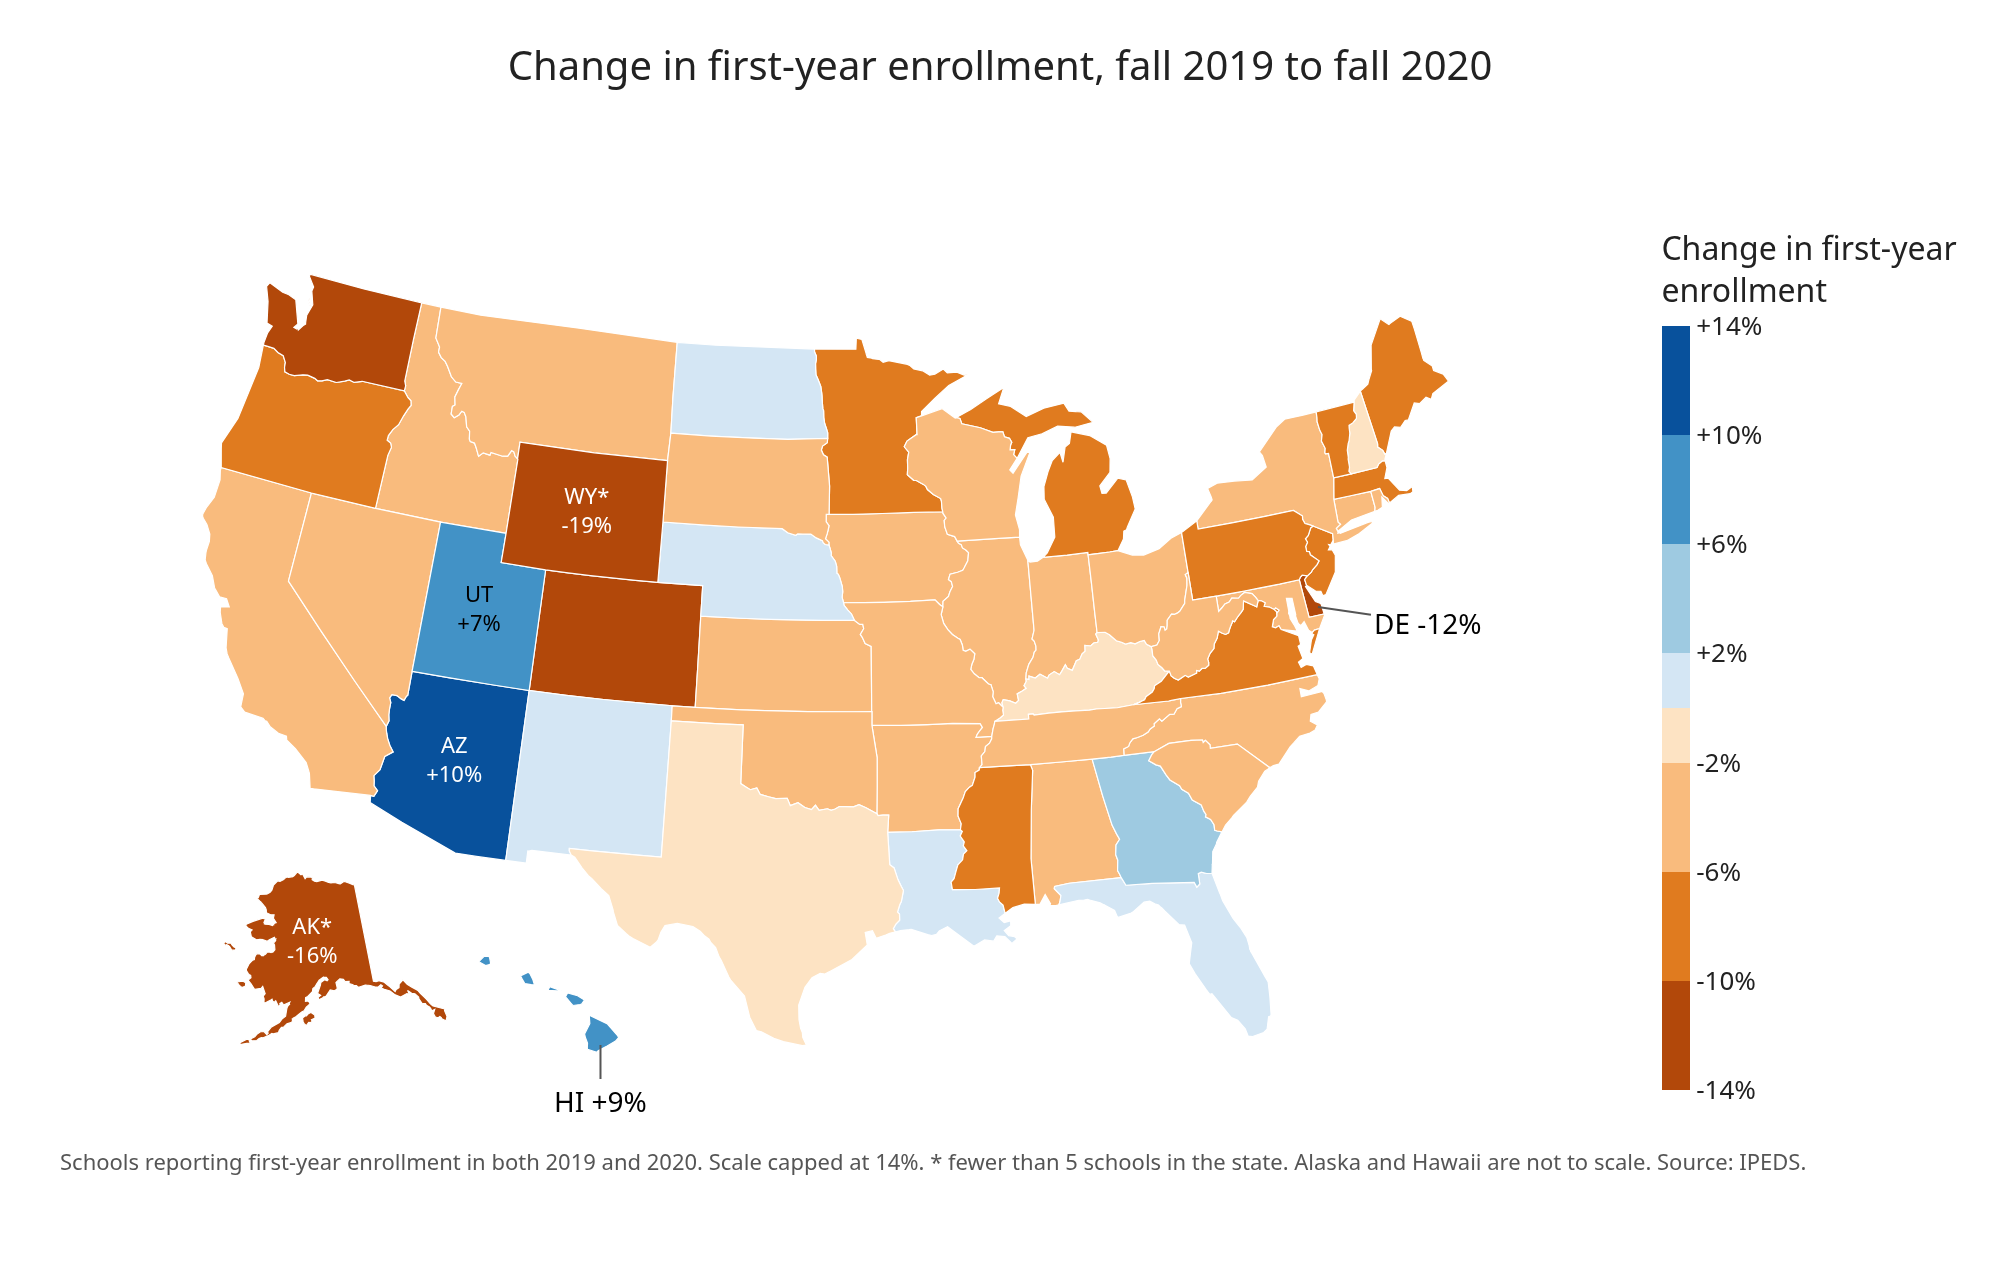
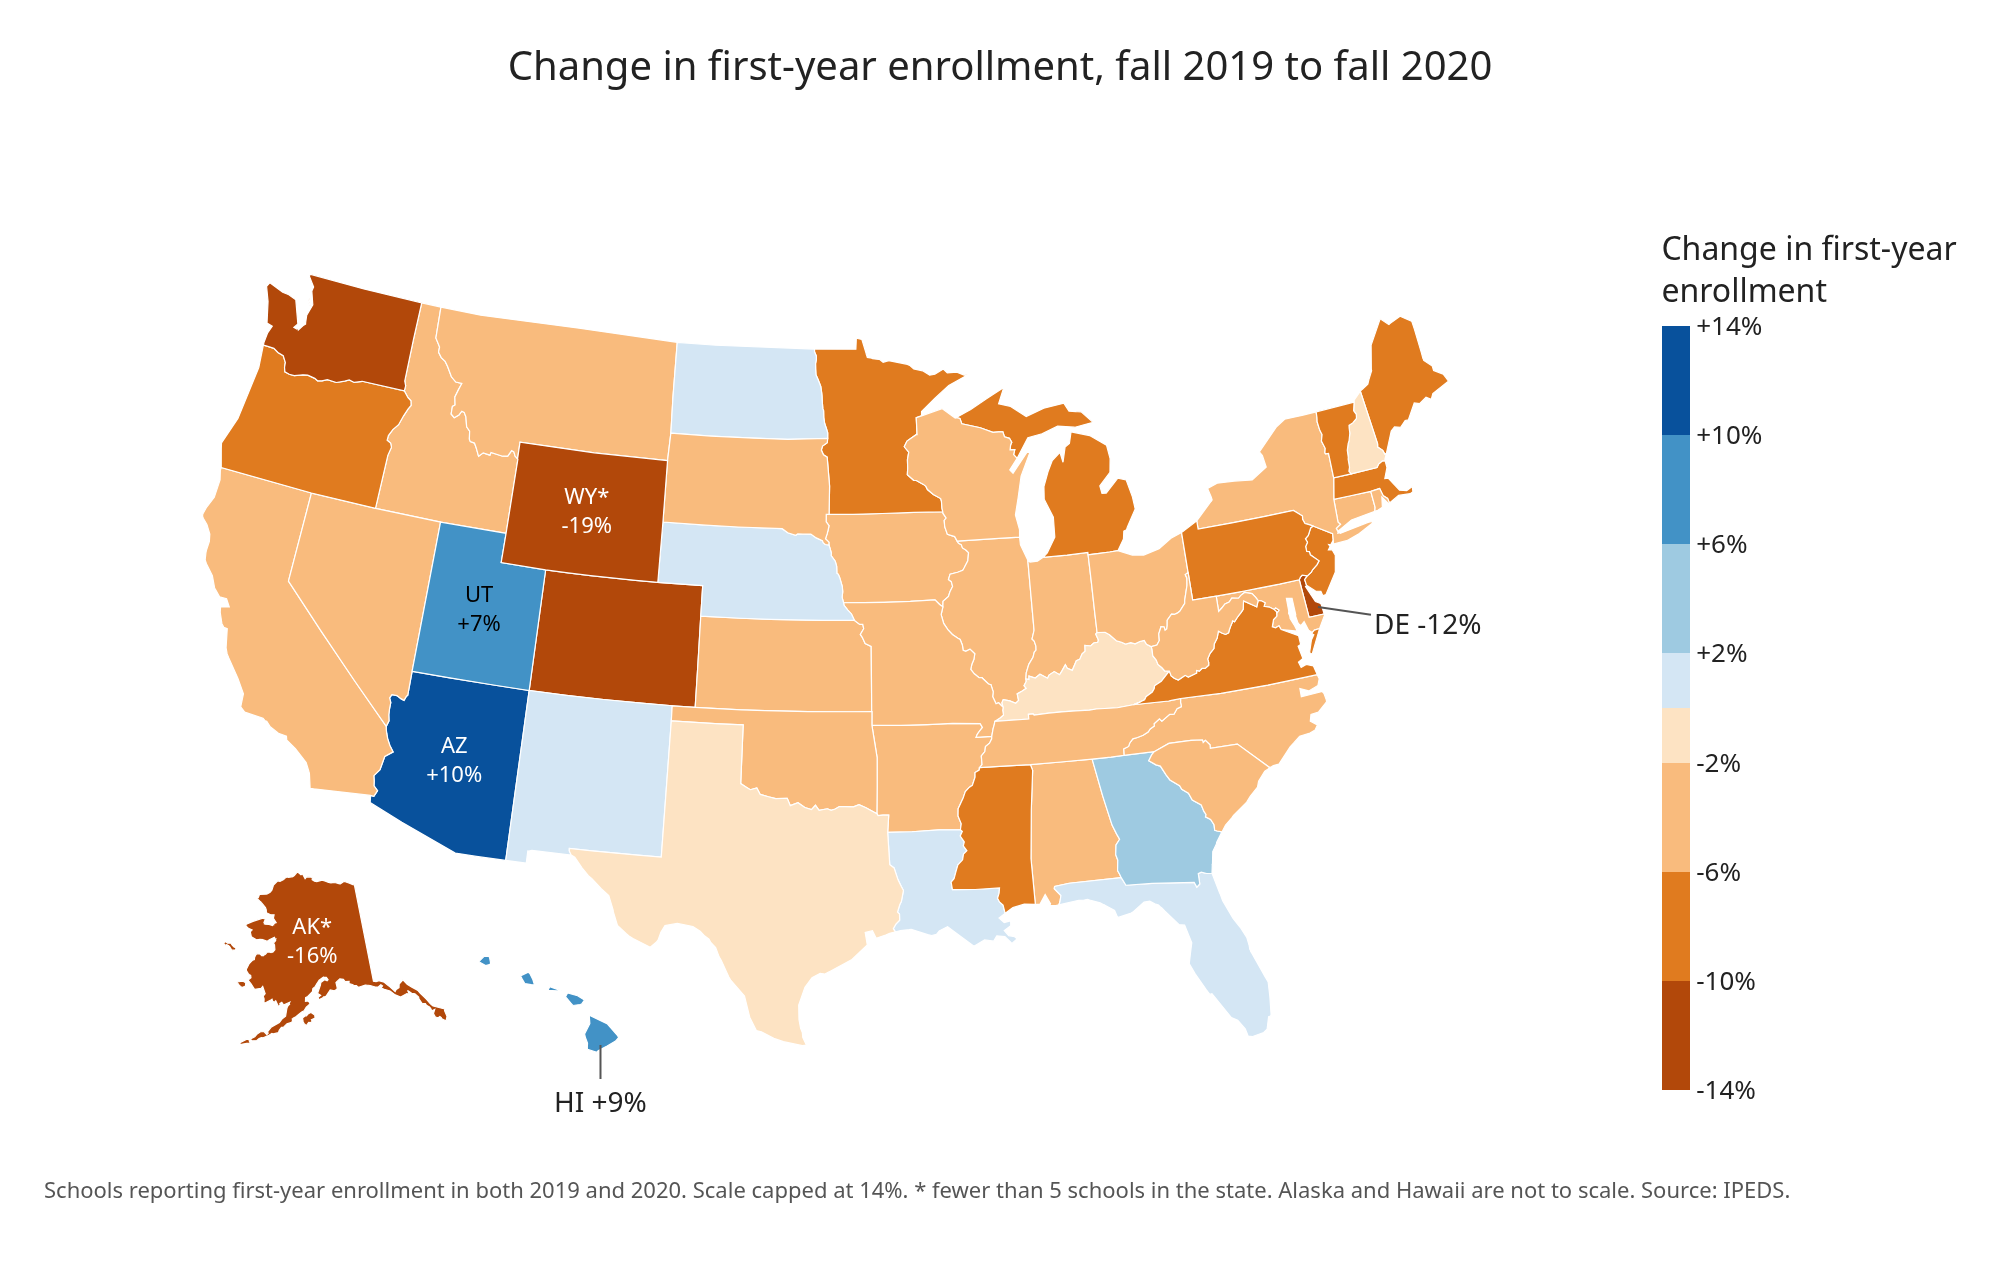
added a utils script for shared logic in python scripts

Changed region(s): [[0.031, 0.9062, 0.899, 0.9375]]

diff --git a/scripts/covid_map.py b/scripts/covid_map.py
@@ -3,16 +3,15 @@
 Reads clean/map_covid.csv (made by clean_data.ipynb) and writes figures/fig1_covid_map.png.
 Run from the repo root: python scripts/covid_map.py
 """
-from pathlib import Path
-
 import numpy as np
 import pandas as pd
 import plotly.graph_objects as go
 
+from utils import footnote, save, style
+
 CAP = 14  # color scale is capped at +/- this many percent
 EDGES = [-14, -10, -6, -2, 0, 2, 6, 10, 14]
 COLORS = ["#b2480a", "#e07b1f", "#f9bb7d", "#fde3c3", "#d4e6f4", "#9ecae1", "#4292c6", "#08519c"]
-COL = "2019-2020"
 # states too small for an in-map label: (x, y, ax, ay) in plot coords and pixel offset of the text
 CALLOUTS = {"HI": (0.357, 0.115, 0, 28), "DE": (0.814, 0.553, 55, 8)}
 
@@ -20,78 +19,46 @@ CALLOUTS = {"HI": (0.357, 0.115, 0, 28), "DE": (0.814, 0.553, 55, 8)}
 def color_scale():
     """Stepped colorscale, one flat color per bin (bins have unequal widths)."""
     pos = [(e + CAP) / (2 * CAP) for e in EDGES]
-    scale = []
-    for i, c in enumerate(COLORS):
-        scale += [[pos[i], c], [pos[i + 1], c]]
-    return scale
+    return [[pos[i + j], c] for i, c in enumerate(COLORS) for j in (0, 1)]
 
 
 def build_figure(map_covid):
-    fig = go.Figure()
-    n = map_covid["n_schools"]
-    v = map_covid[COL]
-    fig.add_trace(go.Choropleth(
+    v, n = map_covid["2019-2020"], map_covid["n_schools"]
+    star = lambda s: "*" if n[s] < 5 else ""  # marks states with very few schools
+    fig = go.Figure(go.Choropleth(
         locations=v.index, z=v.clip(-CAP, CAP), locationmode="USA-states",
         colorscale=color_scale(), zmin=-CAP, zmax=CAP,
         marker_line_color="white", marker_line_width=0.6,
-        customdata=np.c_[v.values, n.values],
+        customdata=np.c_[v, n],
         hovertemplate="%{location}: %{customdata[0]:.1f}% (%{customdata[1]} schools)<extra></extra>",
         colorbar=dict(title="Change in first-year<br>enrollment", tickvals=EDGES,
                       ticktext=[f"{e:+d}%" if e else "" for e in EDGES], len=0.9, thickness=14),
     ))
 
     # label the three biggest losses and gains (DC is too small to hold a label)
-    vv = v.drop("DC")
-    lab = pd.concat([vv.nsmallest(3), vv.nlargest(3)])
-    called = lab[lab.index.isin(CALLOUTS)]
-    lab = lab.drop(called.index)
-    text = [f"{s}{'*' if n[s] < 5 else ''}<br>{x:+.0f}%" for s, x in lab.items()]
-    colors = ["white" if abs(x) >= 10 else "black" for s, x in lab.items()]
+    top = v.drop("DC")
+    top = pd.concat([top.nsmallest(3), top.nlargest(3)])
+    inset = top[top.index.isin(CALLOUTS)]  # tiny states get a callout line instead
+    top = top.drop(inset.index)
     fig.add_trace(go.Scattergeo(
-        locations=lab.index, locationmode="USA-states", mode="text", text=text,
-        textfont=dict(size=11, color=colors), hoverinfo="skip", showlegend=False,
+        locations=top.index, locationmode="USA-states", mode="text", hoverinfo="skip",
+        text=[f"{s}{star(s)}<br>{x:+.0f}%" for s, x in top.items()],
+        textfont=dict(size=11, color=["white" if abs(x) >= 10 else "black" for x in top]),
     ))
+    for s, x in inset.items():
+        cx, cy, ax, ay = CALLOUTS[s]
+        fig.add_annotation(x=cx, y=cy, ax=ax, ay=ay, axref="pixel", ayref="pixel",
+                           xref="paper", yref="paper", text=f"{s}{star(s)} {x:+.0f}%",
+                           arrowhead=0, arrowwidth=1, arrowcolor="#555", font=dict(size=14))
 
-    for st, x in called.items():
-        cx, cy, ax, ay = CALLOUTS[st]
-        fig.add_annotation(
-            xref="paper", yref="paper", x=cx, y=cy, ax=ax, ay=ay, axref="pixel", ayref="pixel",
-            text=f"{st}{'*' if n[st] < 5 else ''} {x:+.0f}%", showarrow=True,
-            arrowhead=0, arrowwidth=1, arrowcolor="#555", font=dict(size=14, color="black"),
-        )
-
-    fig.update_geos(scope="usa", projection_type="albers usa", showlakes=False,
-                    showocean=False, showland=False, showcountries=False,
-                    showcoastlines=False, showframe=False, bgcolor="white")
-    fig.update_layout(
-        title=dict(text="Change in first-year enrollment, fall 2019 to fall 2020",
-                   x=0.5, xanchor="center", font=dict(size=20)),
-        font=dict(family="Helvetica, Arial, sans-serif", size=13, color="#222"),
-        paper_bgcolor="white", plot_bgcolor="white",
-        width=1000, height=640, margin=dict(l=20, r=20, t=80, b=60),
-    )
-    fig.add_annotation(
-        xref="paper", yref="paper", x=0.01, y=-0.02, xanchor="left", showarrow=False,
-        align="left",
-        text="Schools reporting first-year enrollment in both 2019 and 2020. "
-             f"Scale capped at {CAP}%. * fewer than 5 schools in the state. Alaska and Hawaii are not to scale. Source: IPEDS.",
-        font=dict(size=11, color="#555"),
-    )
+    fig.update_geos(scope="usa", projection_type="albers usa", showframe=False,  # no fills that carry no data
+                    showlakes=False, showocean=False, showland=False, showcountries=False, showcoastlines=False)
+    fig.update_layout(showlegend=False)
+    style(fig, "Change in first-year enrollment, fall 2019 to fall 2020", 1000, 640, dict(l=20, r=20, t=80, b=60))
+    footnote(fig, "Schools reporting first-year enrollment in both 2019 and 2020. Scale capped at "
+                  f"{CAP}%. * fewer than 5 schools in the state. Alaska and Hawaii are not to scale. Source: IPEDS.", y=-0.01)
     return fig
 
 
-def main():
-    map_covid = pd.read_csv("clean/map_covid.csv", index_col="state")
-    fig = build_figure(map_covid)
-    Path("figures").mkdir(exist_ok=True)
-    try:
-        fig.write_image("figures/fig1_covid_map.png", scale=2)
-        print("wrote figures/fig1_covid_map.png")
-    except Exception as e:  # kaleido needs Chrome; fall back to html
-        print("png export failed:", e)
-        fig.write_html("figures/fig1_covid_map.html")
-        print("wrote figures/fig1_covid_map.html")
-
-
 if __name__ == "__main__":
-    main()
+    save(build_figure(pd.read_csv("clean/map_covid.csv", index_col="state")), "fig1_covid_map")

diff --git a/scripts/covid_dumbbell.py b/scripts/covid_dumbbell.py
@@ -1,76 +1,46 @@
-"""Figure 2: first-year enrollment by selectivity, fall 2020 and fall 2024 vs fall 2019.
+"""Figure 2: first-year enrollment by selectivity, 2020 and 2024 vs fall 2019.
 
 Reads clean/dumbbell_covid.csv (made by clean_data.ipynb) and writes figures/fig2_covid_dumbbell.png.
 Run from the repo root: python scripts/covid_dumbbell.py
 """
-from pathlib import Path
-
 import pandas as pd
 import plotly.graph_objects as go
 
-ORANGE, BLUE, LINK = "#e07b1f", "#08519c", "#d3d7db"
-ORANGE_TEXT = "#b2480a"
+from utils import BLUE, ORANGE, footnote, save, style
+
+ORANGE_TEXT = "#b2480a"  # darker orange so the labels are readable
 
 
-def fmt(v):
-    sign = "+" if v > 0.05 else "−" if v < -0.05 else ""
-    return f"{sign}{abs(v):.1f}%"
+def pct(v):
+    return f"{'+' if v > 0 else '−'}{abs(v):.1f}%"
 
 
 def build_figure(df):
-    ys = df["tier"].tolist()
-    v20, v24 = df["2020"].tolist(), df["2024"].tolist()
+    tiers, n = df["tier"], df["n_schools"]
     fig = go.Figure()
-    for y, a, b in zip(ys, v20, v24):  # connector from 2020 to 2024
-        fig.add_trace(go.Scatter(x=[a, b], y=[y, y], mode="lines", line=dict(color=LINK, width=4),
-                                 hoverinfo="skip", showlegend=False))
-    for vals, color, text_color, pos, name in ((v20, ORANGE, ORANGE_TEXT, "middle left", "2020"),
-                                               (v24, BLUE, BLUE, "middle right", "2024")):
+    for tier, a, b in zip(tiers, df["2020"], df["2024"]):  # connector between the two years
+        fig.add_trace(go.Scatter(x=[a, b], y=[tier, tier], mode="lines",
+                                 line=dict(color="#d3d7db", width=4), hoverinfo="skip"))
+    for year, color, text_color, side in (("2020", ORANGE, ORANGE_TEXT, "left"), ("2024", BLUE, BLUE, "right")):
         fig.add_trace(go.Scatter(
-            x=vals, y=ys, mode="markers+text", text=[fmt(v) for v in vals], textposition=pos,
-            textfont=dict(size=13, color=text_color), marker=dict(size=15, color=color),
-            customdata=df["n_schools"],
-            hovertemplate=f"%{{y}}<br>{name}: %{{x:.1f}}% (%{{customdata}} schools)<extra></extra>",
-            showlegend=False))
+            x=df[year], y=tiers, mode="markers+text", text=df[year].map(pct),
+            textposition=f"middle {side}", textfont=dict(size=13, color=text_color),
+            marker=dict(size=15, color=color), customdata=n,
+            hovertemplate=f"%{{y}}<br>{year}: %{{x:.1f}}% (%{{customdata}} schools)<extra></extra>"))
+        fig.add_annotation(  # label each year above the top row, instead of a legend
+            x=df[year][0], y=tiers[0], yshift=30, showarrow=False,
+            text=f"<b>{year}</b>", font=dict(size=13, color=text_color))
 
-    fig.update_xaxes(range=[-8, 14], showgrid=True, gridcolor="#e8eaec", zeroline=True,
-                     zerolinecolor="#8a9096", zerolinewidth=1.2, ticksuffix="%", showline=False,
-                     title_text="Change vs fall 2019")
-    fig.update_yaxes(tickvals=ys, ticktext=[f"{t}  (n={n})" for t, n in zip(ys, df["n_schools"])],
-                     autorange="reversed", showgrid=False, zeroline=False, showline=False, ticks="",
-                     title_text="Admit rate in 2019")
-    fig.update_layout(
-        title=dict(text="First-year enrollment by selectivity, 2020 and 2024",
-                   x=0.5, xanchor="center", font=dict(size=20)),
-        font=dict(family="Helvetica, Arial, sans-serif", size=13, color="#222"),
-        paper_bgcolor="white", plot_bgcolor="white",
-        width=900, height=540, margin=dict(l=150, r=30, t=100, b=130),
-    )
-    for vals, color, name in ((v20, ORANGE_TEXT, "2020"), (v24, BLUE, "2024")):
-        fig.add_annotation(  # direct labels above the top row, instead of a legend
-            xref="x", yref="y", x=vals[0], y=ys[0], yshift=30, showarrow=False,
-            text=f"<b>{name}</b>", font=dict(size=13, color=color))
-    fig.add_annotation(
-        xref="paper", yref="paper", x=0, y=-0.26, xanchor="left", yanchor="top", showarrow=False,
-        align="left",
-        text="Schools reporting first-year enrollment in 2019, 2020 and 2024. Each tier is summed enrollment.<br>"
-             "Open-admission schools are mostly missing. 2024 is provisional. Source: IPEDS.",
-        font=dict(size=11, color="#555"))
+    fig.update_xaxes(range=[-8, 14], ticksuffix="%", title_text="Change vs fall 2019",
+                     gridcolor="#e8eaec", zerolinecolor="#8a9096", zerolinewidth=1.2)
+    fig.update_yaxes(tickvals=tiers, ticktext=[f"{t}  (n={k})" for t, k in zip(tiers, n)],
+                     autorange="reversed", showgrid=False, title_text="Admit rate in 2019", ticks="")
+    fig.update_layout(showlegend=False)
+    style(fig, "First-year enrollment by selectivity, 2020 and 2024", 900, 540, dict(l=150, r=30, t=100, b=130))
+    footnote(fig, "Schools reporting first-year enrollment in 2019, 2020 and 2024. Each tier is summed enrollment.<br>"
+                  "Open-admission schools are mostly missing. 2024 is provisional. Source: IPEDS.", y=-0.26)
     return fig
 
 
-def main():
-    df = pd.read_csv("clean/dumbbell_covid.csv")
-    fig = build_figure(df)
-    Path("figures").mkdir(exist_ok=True)
-    try:
-        fig.write_image("figures/fig2_covid_dumbbell.png", scale=2)
-        print("wrote figures/fig2_covid_dumbbell.png")
-    except Exception as e:  # kaleido needs Chrome; fall back to html
-        print("png export failed:", e)
-        fig.write_html("figures/fig2_covid_dumbbell.html")
-        print("wrote figures/fig2_covid_dumbbell.html")
-
-
 if __name__ == "__main__":
-    main()
+    save(build_figure(pd.read_csv("clean/dumbbell_covid.csv")), "fig2_covid_dumbbell")

diff --git a/scripts/utils.py b/scripts/utils.py
@@ -1,0 +1,35 @@
+"""Shared styling and export code for the figure scripts."""
+from pathlib import Path
+
+ORANGE, BLUE = "#e07b1f", "#08519c"
+FONT = "Helvetica, Arial, sans-serif"
+
+
+def style(fig, title, width, height, margin):
+    """Centered title, one sans serif font, white background."""
+    fig.update_layout(
+        title=dict(text=title, x=0.5, xanchor="center", font=dict(size=20)),
+        font=dict(family=FONT, size=13, color="#222"),
+        paper_bgcolor="white", plot_bgcolor="white",
+        width=width, height=height, margin=margin,
+    )
+
+
+def footnote(fig, text, y):
+    """Small gray left-aligned note under the plot (y is in paper coordinates)."""
+    fig.add_annotation(
+        xref="paper", yref="paper", x=0, y=y, xanchor="left", yanchor="top",
+        showarrow=False, align="left", text=text, font=dict(size=11, color="#555"),
+    )
+
+
+def save(fig, name):
+    """Write figures/<name>.png, or an html file if the PNG export fails (kaleido needs Chrome)."""
+    Path("figures").mkdir(exist_ok=True)
+    try:
+        fig.write_image(f"figures/{name}.png", scale=2)
+        print(f"wrote figures/{name}.png")
+    except Exception as e:
+        print("png export failed:", e)
+        fig.write_html(f"figures/{name}.html")
+        print(f"wrote figures/{name}.html")

diff --git a/README.md b/README.md
@@ -43,7 +43,7 @@ The notebook does this, in order:
 5. Build the Covid table: % change in first-year enrollment by state, 2019 to 2020, using schools that report in both years. Saved to `clean/map_covid.csv`.
 6. Build the dumbbell table: % change in first-year enrollment vs 2019, for 2020 and 2024, by 2019 admit-rate tier, using schools that report in 2019, 2020 and 2024. Saved to `clean/dumbbell_covid.csv`.
 
-Each figure has its own script in `scripts/`. Run them from the repo root after the notebook:
+Each figure has its own script in `scripts/` (shared styling and saving is in `scripts/utils.py`). Run them from the repo root after the notebook:
 ```bash
 python scripts/covid_map.py        # clean/map_covid.csv -> figures/fig1_covid_map.png
 python scripts/covid_dumbbell.py   # clean/dumbbell_covid.csv -> figures/fig2_covid_dumbbell.png
